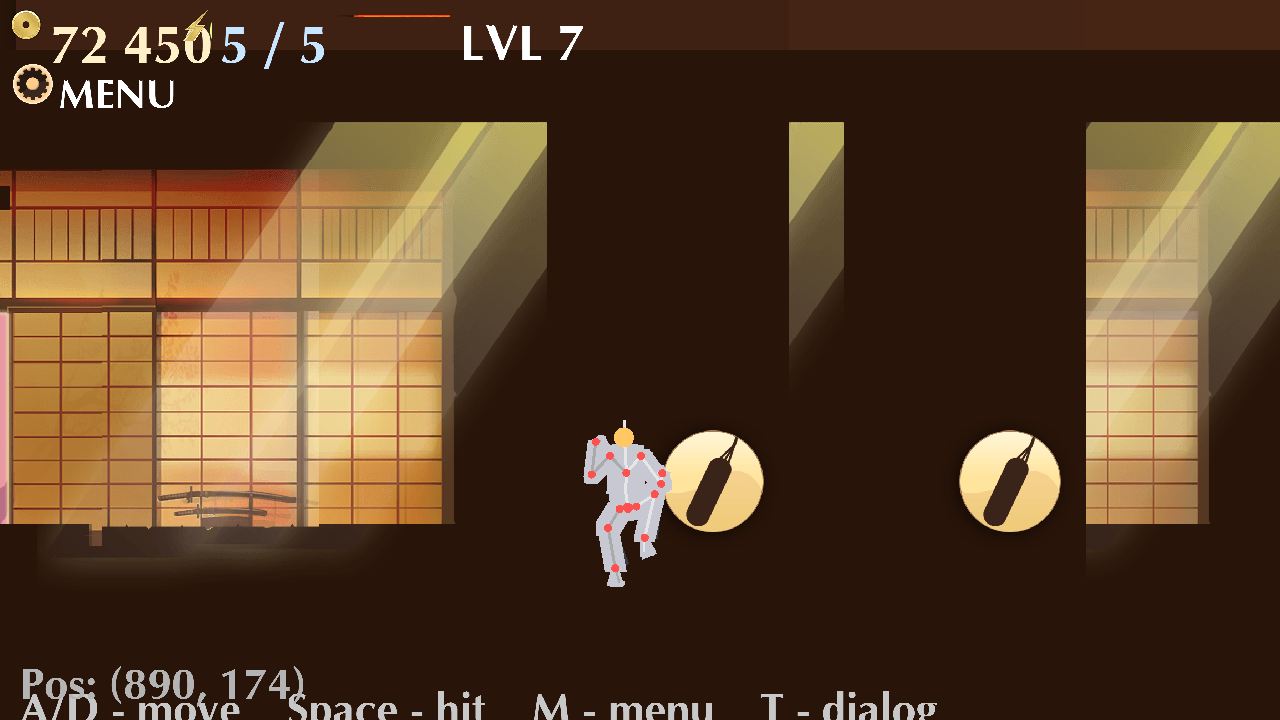
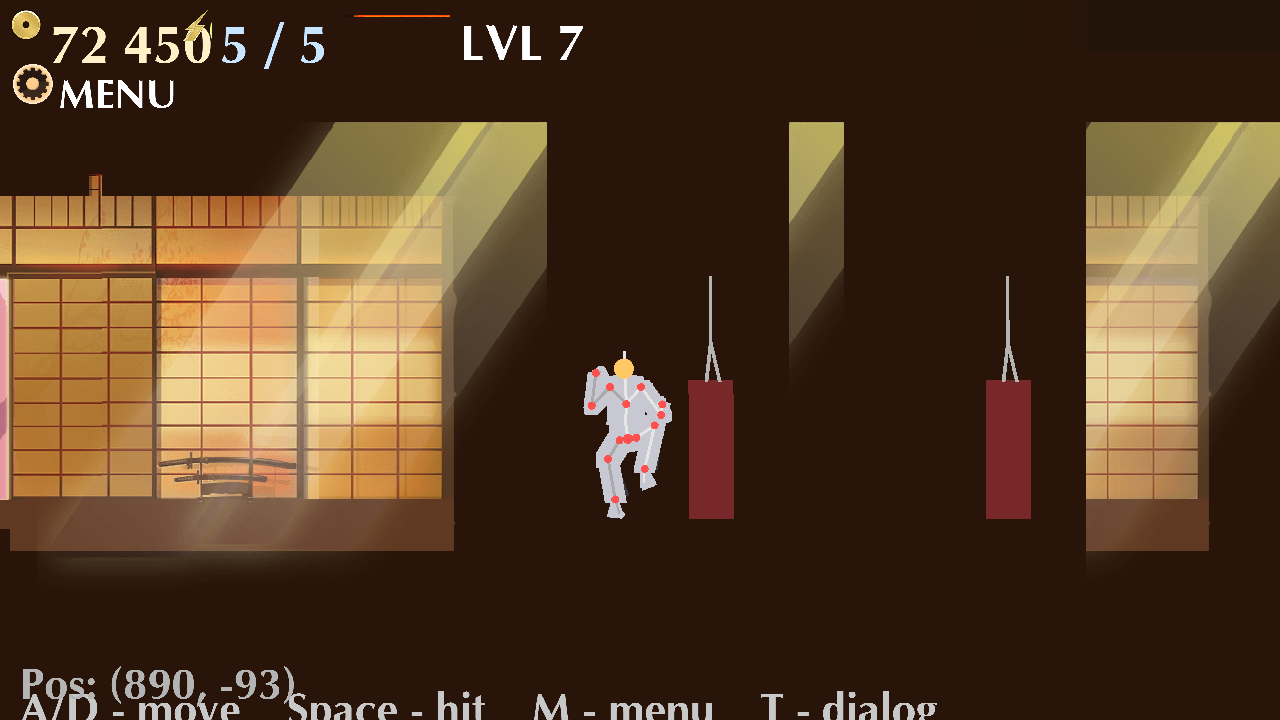
c9eb334d-2414-4ca9-bef4-2d3d38d42fe0

diff --git a/worklog.md b/worklog.md
@@ -268,3 +268,67 @@ Stage Summary:
 - VLM-verified: character has "filled torso area with thickness".
 - Next: need skeleton_punching_bag.xml to render the real punching bag
   3D model (currently using btn_punching_bag.png icon as placeholder).
+
+---
+Task ID: stage-7.6
+Agent: main
+Task: Stage 7.6 — Y-UP coordinate system fix, real 3D punching bag, detailed RE plan
+
+Work Log:
+- Created detailed reverse engineering plan (docs/17_detailed_reverse_plan.md)
+  documenting:
+  - Original engine: cocos2d-x 2.2.6 + Marmalade SDK 8.2.1
+  - Coordinate systems: cocos2d uses Y-UP (origin bottom-left), location
+    params.xml uses Y-UP (origin center, positive Y = up)
+  - Skeleton/model local coords: Y-UP (0 = feet, positive = up)
+  - Texture atlas coords: Y-DOWN (PNG top-left origin), cocos2d internally
+    flips V
+  - Rendering pipeline: CCDirector ortho projection, CCLayers with parallax,
+    CCSprites positioned at center (anchorPoint 0.5, 0.5)
+  - Body model: triangles (visual mesh) + capsules (collision), MacroNodes
+    = weighted blend of skeleton joints
+
+- CRITICAL FIX: Changed coordinate system from Y-DOWN back to Y-UP (cocos2d
+  convention). The original game uses Y-UP throughout (confirmed by
+  analyzing params.xml ceiling/floor mask positions and cocos2d-x 2.2.6
+  default projection). Previous Y-DOWN implementation inverted the scene.
+
+- Fixed software renderer:
+  - Camera2D::world_to_screen: sy = view_height/2 - dy (Y-UP to Y-DOWN screen)
+  - draw_textured_quad: (x,y) = bottom-left corner, quad extends up (+Y)
+  - UV mapping: world bottom (y) -> atlas bottom (v1), world top (y+h) ->
+    atlas top (v0)
+
+- Fixed GL renderer:
+  - Camera2D::view_projection: standard ortho (bottom=y-hh, top=y+hh) = Y-UP
+  - draw_line_world: Y-UP world -> Y-DOWN screen (invert Y)
+  - Removed double V-flip in location rendering (was fv0=1-v1 + SpriteBatch
+    1-v0, now just SpriteBatch handles the flip)
+
+- Implemented real 3D punching bag model from user-provided
+  skeleton_punching_bag.xml + punching_bag.xml:
+  - 15 nodes (NNeck, NBottom, NPivot, Node4-7, Node12, Node13-18)
+  - 23 edges (Body, Edge8-11, Edge15-32)
+  - 11 capsules (Edge16/17 = main bag r=25, others = chain r=2)
+  - Renders as thick capsules: dark red bag body + gray chain
+
+- Updated character placement to use PlayerPositionY from params.xml
+  directly (matches original engine placement).
+
+- Fixed HUD Top_Panel rendering: tile horizontally instead of stretching
+  with invalid UV >1.0.
+
+- All 4 unit tests pass.
+
+Stage Summary:
+- Coordinate system is now Y-UP throughout (matching cocos2d-x 2.2.6).
+- Dojo background is upright (floor at bottom, ceiling at top).
+- Real 3D punching bag model renders with chain hanging from ceiling.
+- Character body mesh renders (capsules + triangles from body.xml).
+- HUD uses real Top_Panel/gold/energy/Level_bar textures.
+- Menu button on left side uses real Settings_normal icon; expanded menu
+  shows 7 real icons (Dojo/Map/Shop/Profile/Settings/Fight/Lottery).
+- VLM-verified: background upright, punching bag with chain visible,
+  character body mesh present.
+- Next: decode .bin animation files so character can walk/punch instead
+  of static T-pose.
